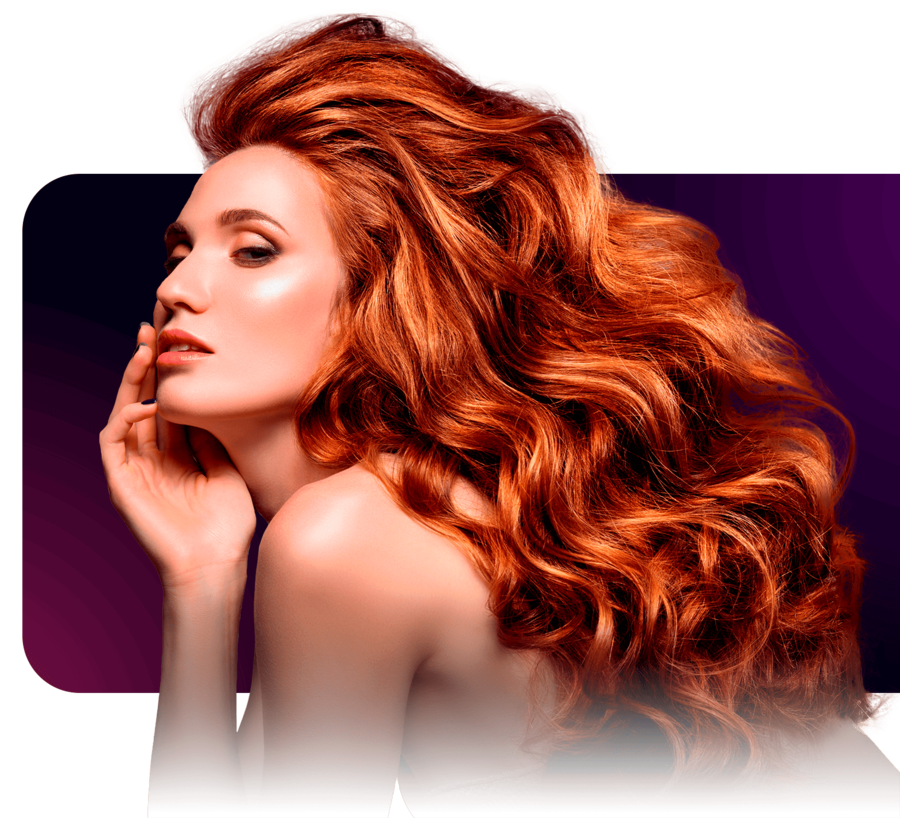
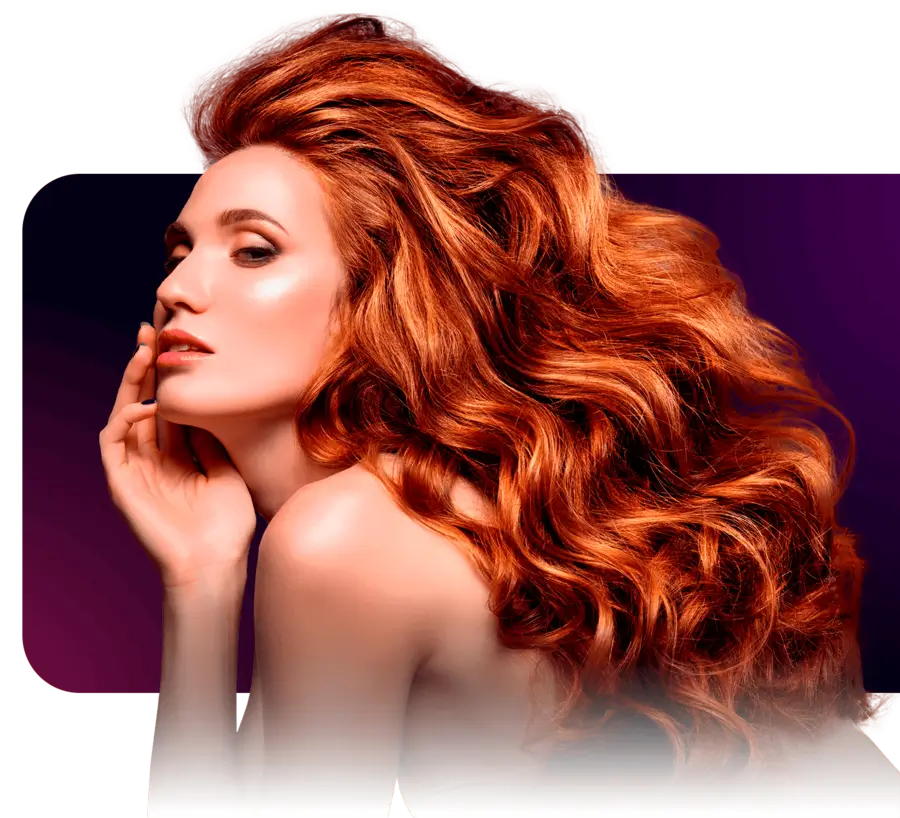
hairmodel img optimizations

diff --git a/src/components/WelcomeSection.tsx b/src/components/WelcomeSection.tsx
@@ -25,11 +25,8 @@ export const WelcomeSection = () => {
         </a>
       </div>
 
-      <div className="flex-1">
-        <picture>
-          <source media="(min-width: 768px)" srcSet="/hairmodel3.webp" type="image/webp" />
-          <img src="/hairmodel3mobile.webp" alt="Lindos Cabelos Ruivos" className="max-w-full float-end w-full h-auto object-contain z-10" />
-        </picture>
+      <div className="flex-1">       
+          <img src="/hairmodel3.webp" alt="Lindos Cabelos Ruivos" className="max-w-full float-end w-full h-auto object-contain z-10" />
       </div>
     </section>
   );
